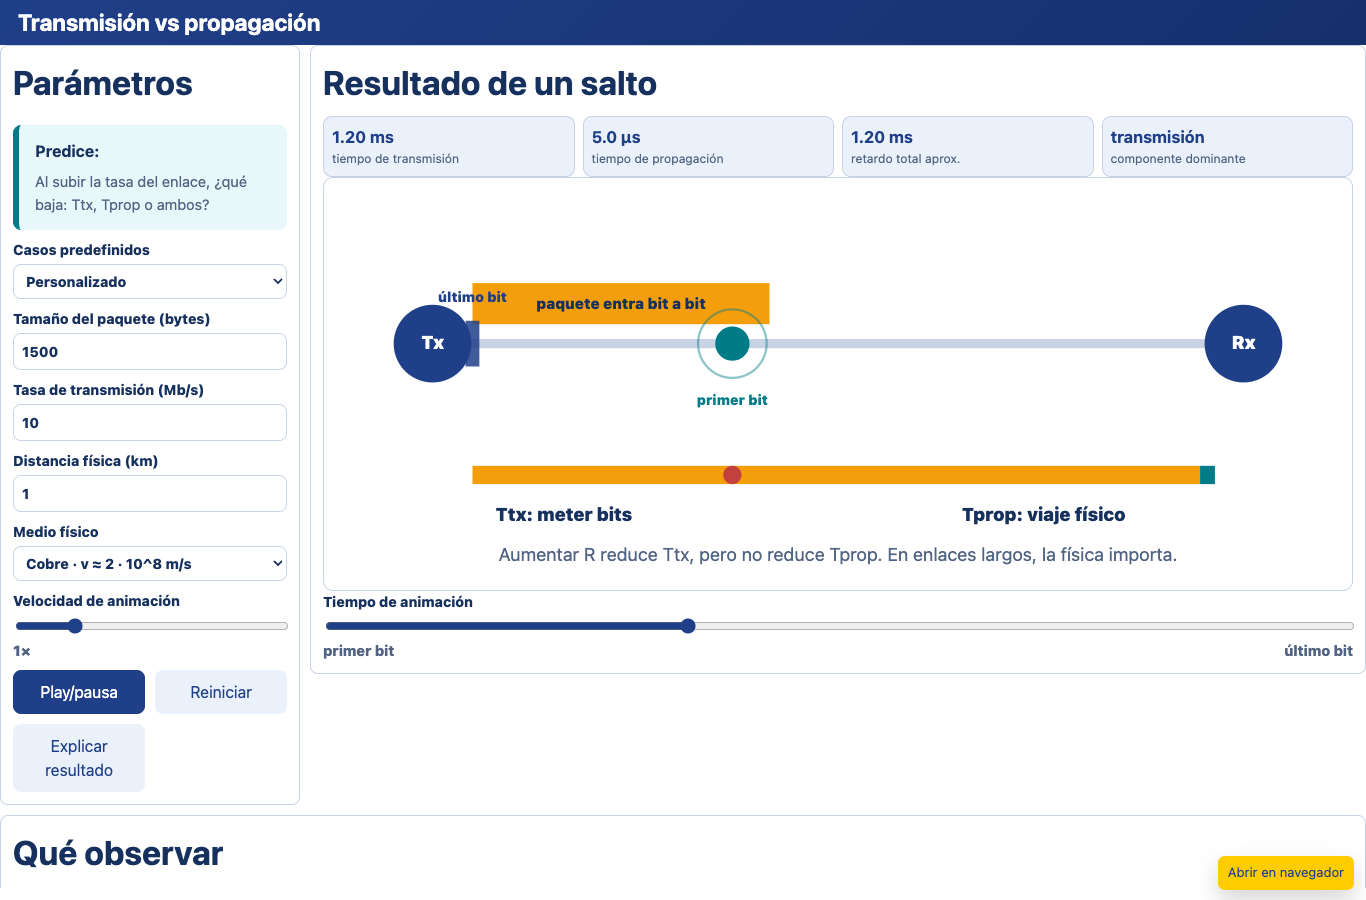
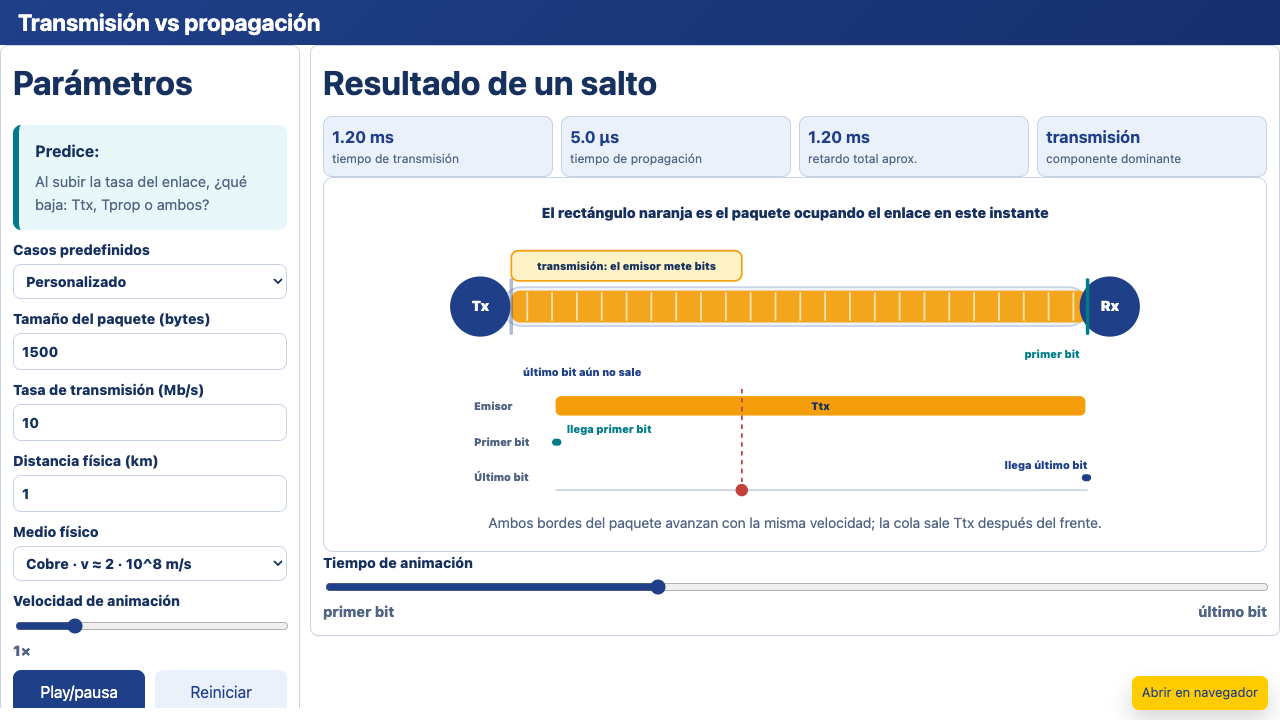
Redesign transmission propagation animation

diff --git a/docs/interactive_examples/transmission_vs_propagation/script.js b/docs/interactive_examples/transmission_vs_propagation/script.js
@@ -58,26 +58,47 @@ function draw(ttx, tprop, total) {
   const firstBitX = 130 + firstBitPosition * 650;
   const lastBitX = 130 + lastBitPosition * 650;
   const lastBitHasLeft = elapsed >= ttx;
+  const packetStartX = Math.min(lastBitX, firstBitX);
+  const packetWidth = Math.max(0, Math.abs(firstBitX - lastBitX));
   const txWidth = Math.max(16, Math.min(260, 35 + txFraction * 300));
-  svg.append(svgEl("line", { x1: 120, y1: lineY, x2: 780, y2: lineY, stroke: "#c7d2e5", "stroke-width": 8, "stroke-linecap": "round" }));
+  const timelineX = 180;
+  const timelineLen = 600;
+  const timeX = (seconds) => timelineX + Math.max(0, Math.min(1, seconds / Math.max(total, 1e-12))) * timelineLen;
+  const currentX = timeX(elapsed);
+  const firstArrivalX = timeX(tprop);
+  const firstArrivalNearStart = firstArrivalX < timelineX + 145;
+  svg.append(svgEl("rect", { x: 120, y: lineY - 22, width: 660, height: 44, rx: 22, fill: "#eef3fb", stroke: "#c7d2e5", "stroke-width": 2 }));
+  if (packetWidth > 1) {
+    svg.append(svgEl("rect", { x: packetStartX, y: lineY - 18, width: packetWidth, height: 36, rx: 10, fill: "#f59e0b", opacity: .92 }));
+    for (let x = packetStartX + 18; x < packetStartX + packetWidth - 4; x += 28) {
+      svg.append(svgEl("line", { x1: x, y1: lineY - 16, x2: x, y2: lineY + 16, stroke: "#fff7df", "stroke-width": 2, opacity: .75 }));
+    }
+  }
   svg.append(svgEl("circle", { cx: 95, cy: lineY, r: 34, fill: "#1f3f88" }));
   svg.append(svgEl("circle", { cx: 805, cy: lineY, r: 34, fill: "#1f3f88" }));
   text(svg, { x: 95, y: lineY + 5, fill: "#fff", "text-anchor": "middle", "font-weight": 900 }, "Tx");
   text(svg, { x: 805, y: lineY + 5, fill: "#fff", "text-anchor": "middle", "font-weight": 900 }, "Rx");
-  svg.append(svgEl("rect", { x: 130, y: 92, width: txWidth, height: 36, fill: "#f59e0b" }));
-  text(svg, { x: 130 + txWidth / 2, y: 115, fill: "#17315f", "text-anchor": "middle", "font-weight": 900, "font-size": 13 }, "paquete entra bit a bit");
-  svg.append(svgEl("circle", { cx: firstBitX, cy: lineY, r: 15, fill: "#007c89" }));
-  svg.append(svgEl("circle", { cx: firstBitX, cy: lineY, r: 30, fill: "none", stroke: "#007c89", "stroke-width": 2, opacity: .45 }));
-  svg.append(svgEl("rect", { x: lastBitX - 6, y: lineY - 20, width: 12, height: 40, fill: "#1f3f88", opacity: lastBitHasLeft ? .85 : .35 }));
-  text(svg, { x: firstBitX, y: lineY + 54, fill: "#007c89", "text-anchor": "middle", "font-weight": 900, "font-size": 12 }, "primer bit");
-  text(svg, { x: Math.max(lastBitX, 170), y: lineY - 36, fill: "#1f3f88", "text-anchor": "middle", "font-weight": 900, "font-size": 12 }, lastBitHasLeft ? "último bit" : "último bit espera");
-  svg.append(svgEl("line", { x1: 130, y1: 260, x2: 780, y2: 260, stroke: "#c7d2e5", "stroke-width": 2 }));
-  svg.append(svgEl("rect", { x: 130, y: 252, width: 650 * txFraction, height: 16, fill: "#f59e0b" }));
-  svg.append(svgEl("rect", { x: 130 + 650 * txFraction, y: 252, width: 650 * (1 - txFraction), height: 16, fill: "#007c89" }));
-  svg.append(svgEl("circle", { cx: 130 + p * 650, cy: 260, r: 8, fill: "#c2413d" }));
-  text(svg, { x: 210, y: 300, fill: "#17315f", "text-anchor": "middle", "font-weight": 900 }, "Ttx: meter bits");
-  text(svg, { x: 630, y: 300, fill: "#17315f", "text-anchor": "middle", "font-weight": 900 }, "Tprop: viaje físico");
-  text(svg, { x: 450, y: 335, fill: "#516483", "text-anchor": "middle" }, "Ambos bits se propagan con la misma v; el último sale Ttx más tarde.");
+  svg.append(svgEl("line", { x1: firstBitX, y1: lineY - 30, x2: firstBitX, y2: lineY + 30, stroke: "#007c89", "stroke-width": 4, "stroke-linecap": "round" }));
+  svg.append(svgEl("line", { x1: lastBitX, y1: lineY - 30, x2: lastBitX, y2: lineY + 30, stroke: "#1f3f88", "stroke-width": 4, "stroke-linecap": "round", opacity: lastBitHasLeft ? 1 : .35 }));
+  text(svg, { x: Math.min(Math.max(firstBitX, 170), 740), y: lineY + 58, fill: "#007c89", "text-anchor": "middle", "font-weight": 900, "font-size": 12 }, "primer bit");
+  text(svg, { x: lastBitHasLeft ? Math.min(Math.max(lastBitX, 170), 740) : 210, y: lastBitHasLeft ? lineY - 42 : lineY + 78, fill: "#1f3f88", "text-anchor": "middle", "font-weight": 900, "font-size": 12 }, lastBitHasLeft ? "último bit" : "último bit aún no sale");
+  svg.append(svgEl("rect", { x: 130, y: 82, width: txWidth, height: 34, rx: 8, fill: "#fef3c7", stroke: "#f59e0b", "stroke-width": 2 }));
+  text(svg, { x: 130 + txWidth / 2, y: 104, fill: "#17315f", "text-anchor": "middle", "font-weight": 900, "font-size": 12 }, "transmisión: el emisor mete bits");
+  text(svg, { x: 450, y: 45, fill: "#17315f", "text-anchor": "middle", "font-weight": 900, "font-size": 16 }, "El rectángulo naranja es el paquete ocupando el enlace en este instante");
+
+  text(svg, { x: 88, y: 262, fill: "#516483", "font-weight": 900, "font-size": 12 }, "Emisor");
+  text(svg, { x: 88, y: 302, fill: "#516483", "font-weight": 900, "font-size": 12 }, "Primer bit");
+  text(svg, { x: 88, y: 342, fill: "#516483", "font-weight": 900, "font-size": 12 }, "Último bit");
+  svg.append(svgEl("line", { x1: timelineX, y1: 352, x2: timelineX + timelineLen, y2: 352, stroke: "#c7d2e5", "stroke-width": 2 }));
+  svg.append(svgEl("rect", { x: timeX(0), y: 246, width: Math.max(2, timeX(ttx) - timeX(0)), height: 22, rx: 6, fill: "#f59e0b" }));
+  text(svg, { x: (timeX(0) + timeX(ttx)) / 2, y: 262, fill: "#17315f", "text-anchor": "middle", "font-weight": 900, "font-size": 12 }, "Ttx");
+  svg.append(svgEl("line", { x1: timeX(0), y1: 298, x2: timeX(tprop), y2: 298, stroke: "#007c89", "stroke-width": 8, "stroke-linecap": "round" }));
+  svg.append(svgEl("line", { x1: timeX(ttx), y1: 338, x2: timeX(total), y2: 338, stroke: "#1f3f88", "stroke-width": 8, "stroke-linecap": "round" }));
+  text(svg, { x: firstArrivalNearStart ? firstArrivalX + 10 : firstArrivalX, y: 288, fill: "#007c89", "text-anchor": firstArrivalNearStart ? "start" : "end", "font-weight": 900, "font-size": 12 }, "llega primer bit");
+  text(svg, { x: timeX(total), y: 328, fill: "#1f3f88", "text-anchor": "end", "font-weight": 900, "font-size": 12 }, "llega último bit");
+  svg.append(svgEl("line", { x1: currentX, y1: 238, x2: currentX, y2: 356, stroke: "#c2413d", "stroke-width": 2, "stroke-dasharray": "5 5" }));
+  svg.append(svgEl("circle", { cx: currentX, cy: 352, r: 7, fill: "#c2413d" }));
+  text(svg, { x: 450, y: 395, fill: "#516483", "text-anchor": "middle" }, "Ambos bordes del paquete avanzan con la misma velocidad; la cola sale Ttx después del frente.");
 }
 function update() {
   const packetBytes = Number($("packetBytes").value);

diff --git a/docs/interactive_examples/transmission_vs_propagation/index.html b/docs/interactive_examples/transmission_vs_propagation/index.html
@@ -76,7 +76,7 @@ Véanse LICENSE-0BSD, LICENSE-CC0 y LICENSES.md.
           <div class="metric"><strong id="total">-</strong><span>retardo total aprox.</span></div>
           <div class="metric"><strong id="dominant">-</strong><span>componente dominante</span></div>
         </div>
-        <svg id="txSvg" class="visual" viewBox="0 0 900 360" role="img" aria-label="Tiempo de transmisión frente a propagación"></svg>
+        <svg id="txSvg" class="visual" viewBox="0 0 900 420" role="img" aria-label="Tiempo de transmisión frente a propagación"></svg>
         <div class="timeline-control">
           <label>Tiempo de animación
             <input id="timeScrub" type="range" min="0" max="100" value="35">
@@ -94,7 +94,7 @@ Véanse LICENSE-0BSD, LICENSE-CC0 y LICENSES.md.
         <div class="bar-track"><div id="propBar" class="bar-fill alt"></div></div>
       </div>
       <p id="explanation" class="interpretation"></p>
-      <p class="mini-note">En la animación, el primer bit y el último bit se propagan por el enlace con la misma velocidad del medio. La diferencia es que el último bit empieza a propagarse cuando termina el tiempo de transmisión.</p>
+      <p class="mini-note">En la animación, el rectángulo naranja representa los bits del paquete que ocupan el enlace. Su borde delantero es el primer bit y su borde trasero es el último bit: ambos se propagan con la misma velocidad del medio; el último bit simplemente sale <code>Ttx</code> más tarde.</p>
     </section>
     <section class="panel challenge-panel hide-embed">
       <h2>Reto · predice el componente dominante</h2>

diff --git a/CHANGELOG.md b/CHANGELOG.md
@@ -4,6 +4,7 @@
 
 - Corregida la animación de `transmission_vs_propagation`: el primer bit y el último bit se propagan ahora con la misma velocidad del medio.
 - Ajustado el modelo visual para que el último bit empiece a moverse después de `Ttx`, en lugar de recorrer el enlace con una velocidad aparente distinta.
+- Rediseñada la visualización con un rectángulo naranja que representa el paquete ocupando el enlace y con una línea de tiempo donde `Ttx` aparece como intervalo rectangular explícito.
 - Añadida una nota docente visible aclarando que la diferencia entre ambos bits es temporal, no física.
 
 ## 1.3.0 - 2026-05-07
